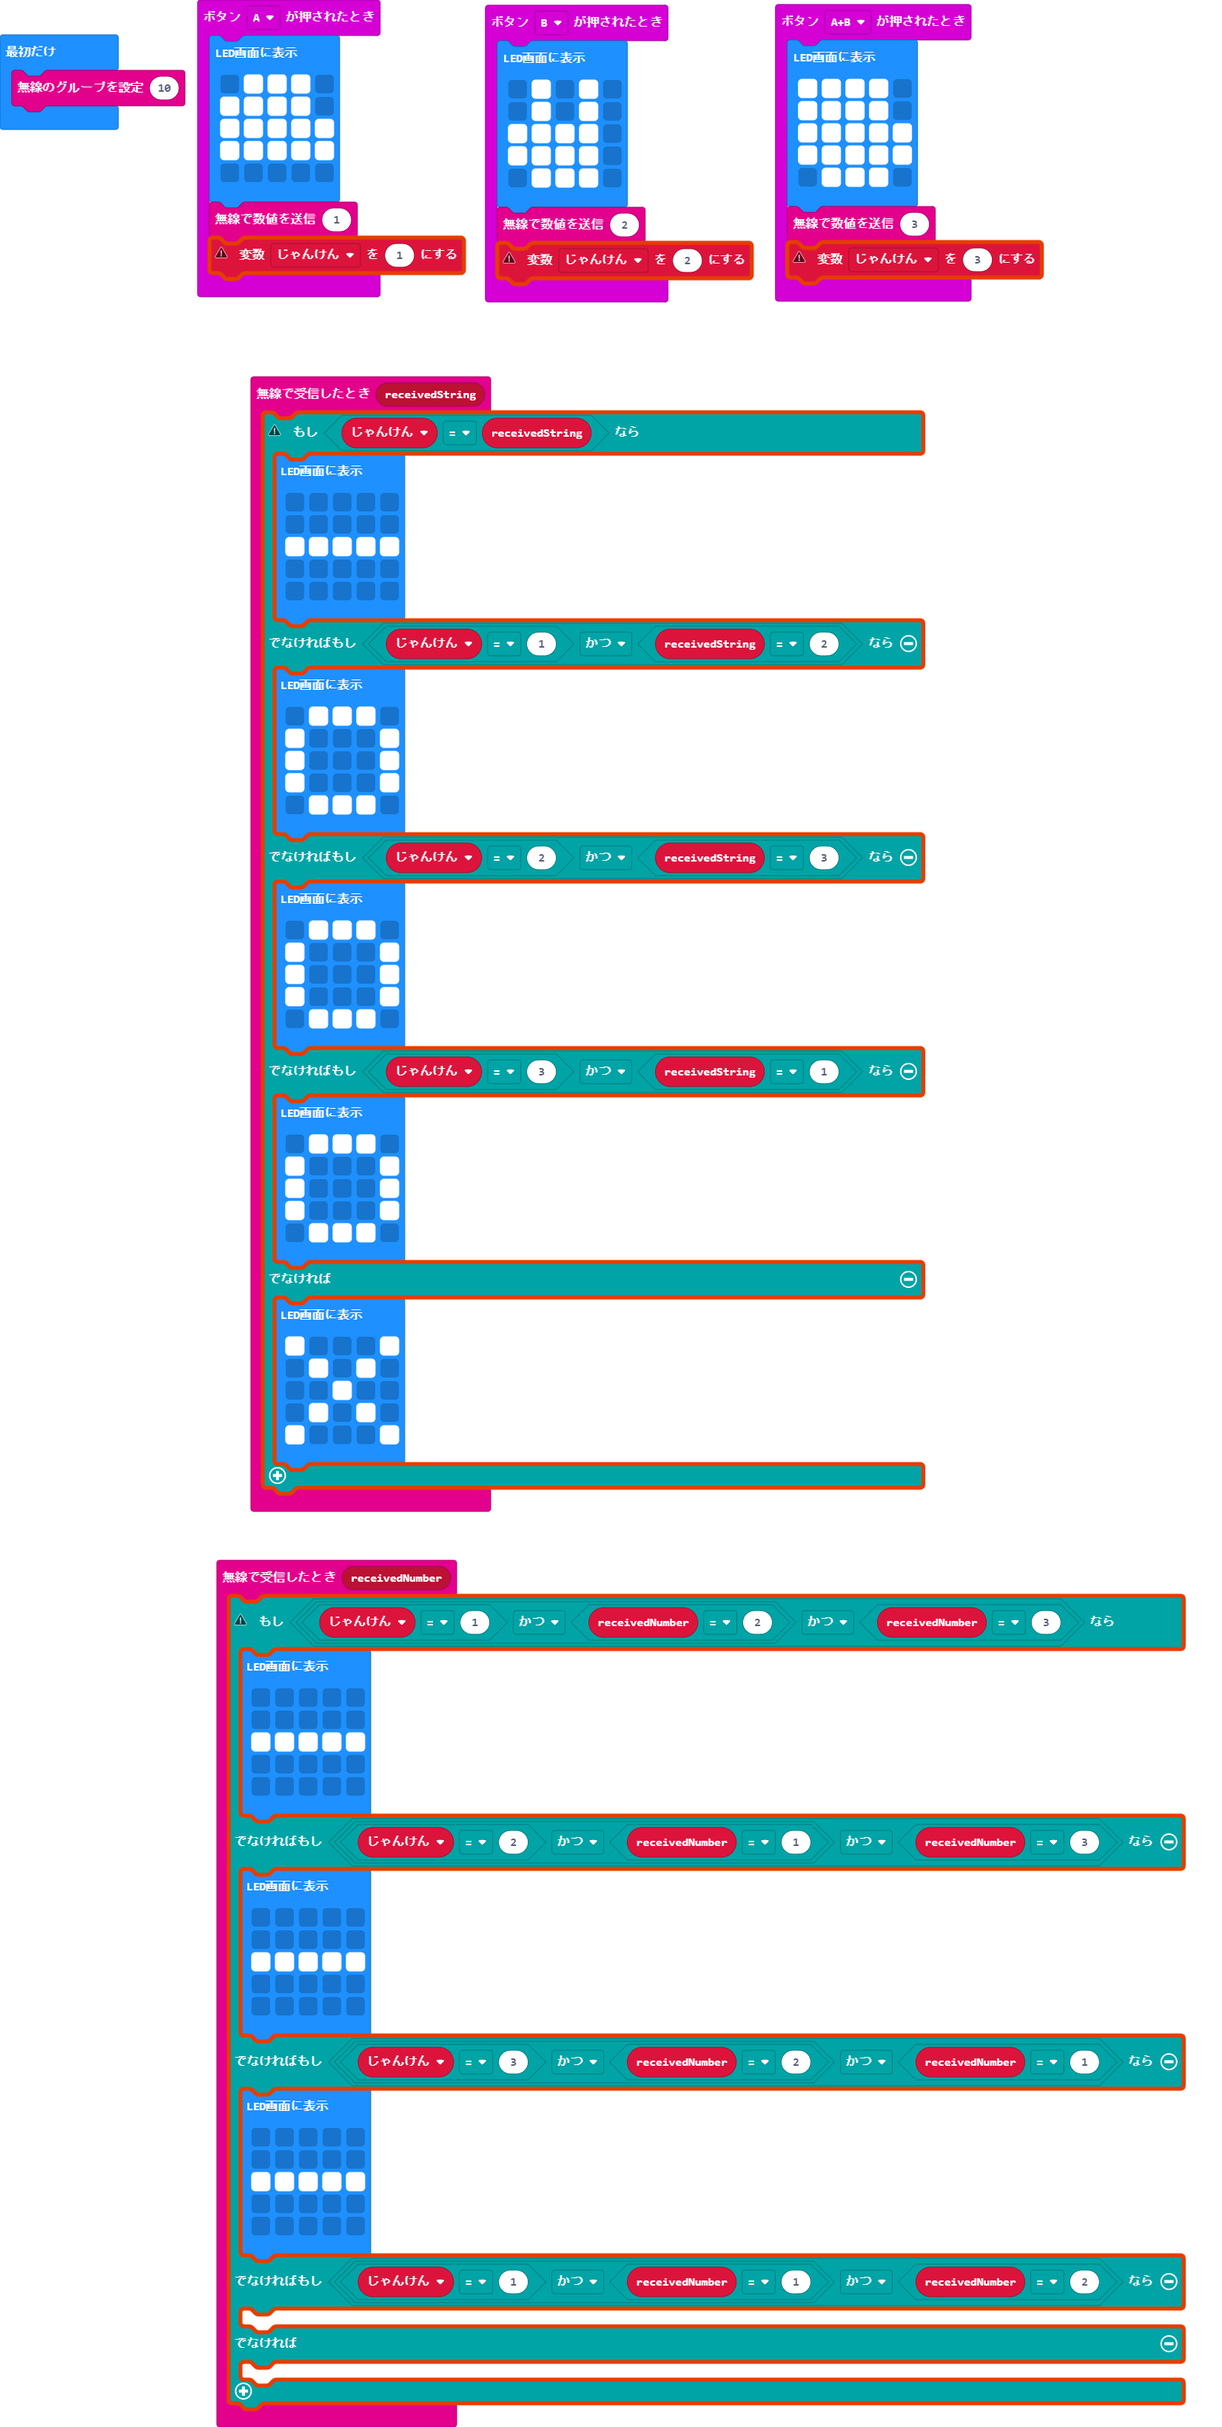
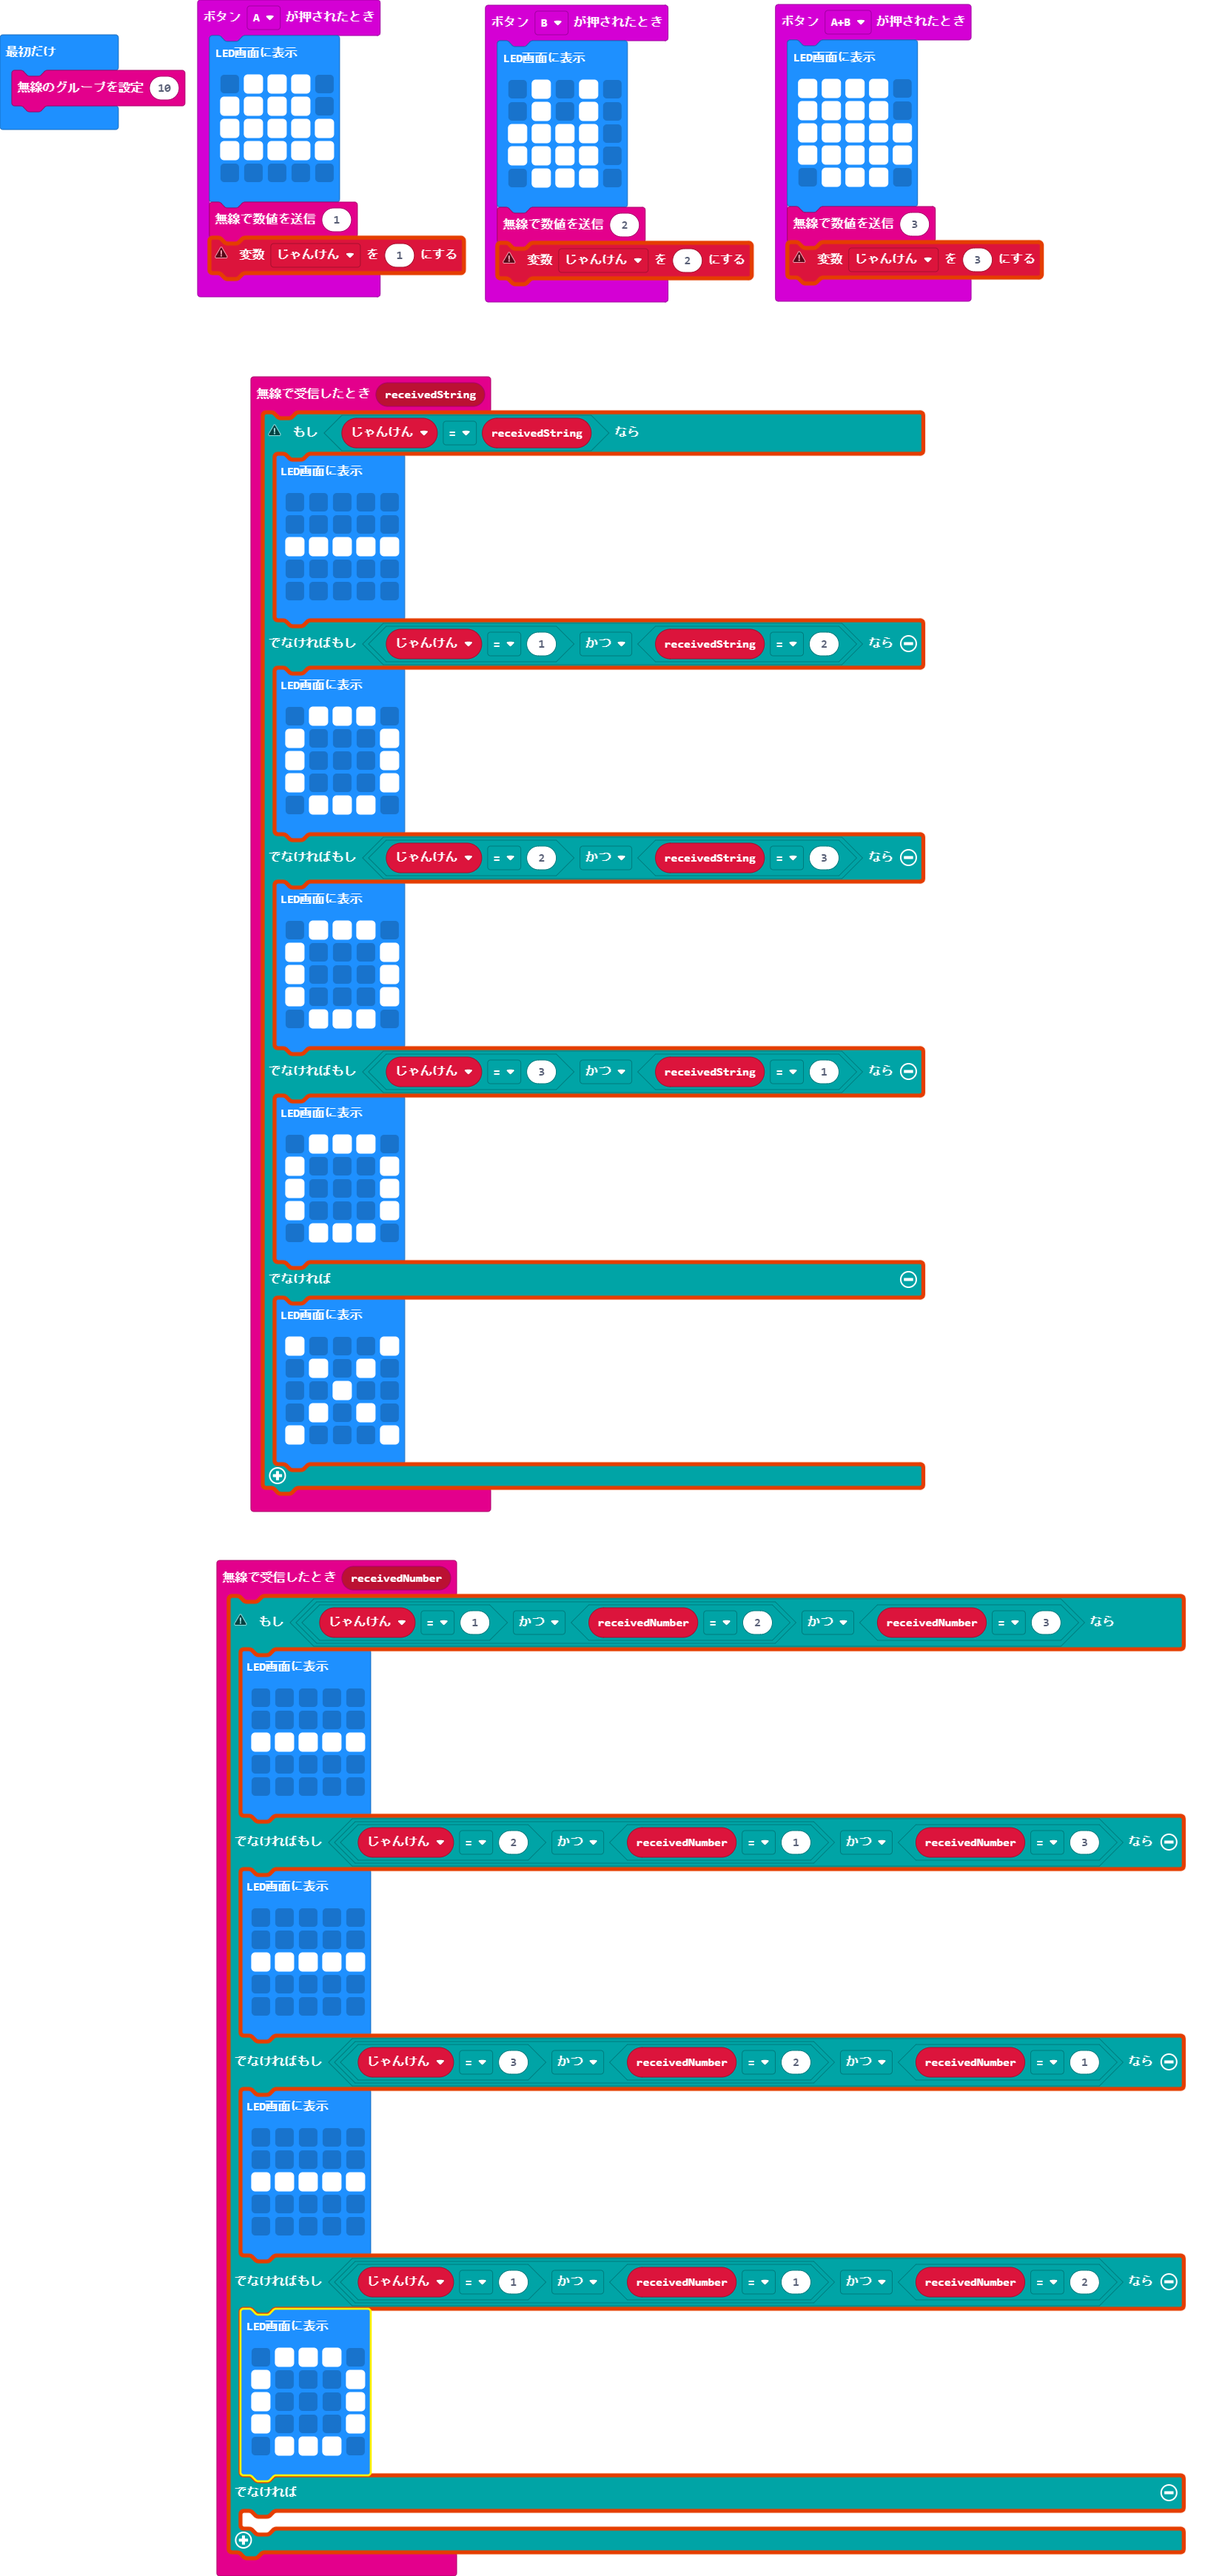
Update main.blocks, main.ts

diff --git a/main.ts b/main.ts
@@ -24,7 +24,13 @@ radio.onReceivedNumber(function (receivedNumber) {
             . . . . .
             `)
     } else if (じゃんけん == 1 && receivedNumber == 1 && receivedNumber == 2) {
-    	
+        basic.showLeds(`
+            . # # # .
+            # . . . #
+            # . . . #
+            # . . . #
+            . # # # .
+            `)
     } else {
     	
     }
